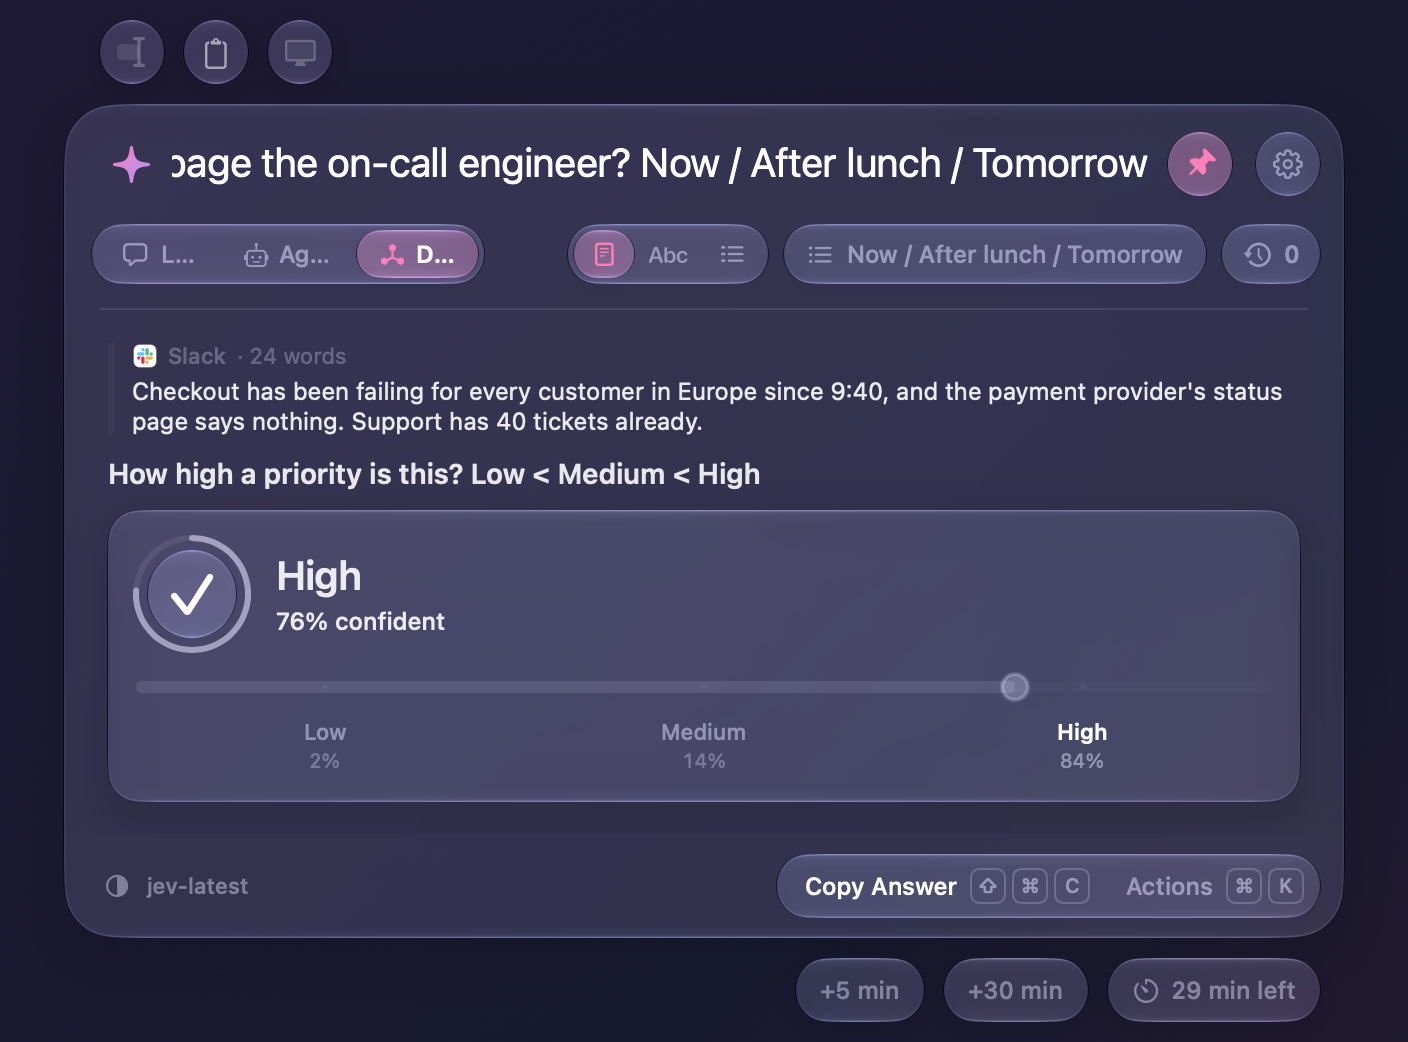
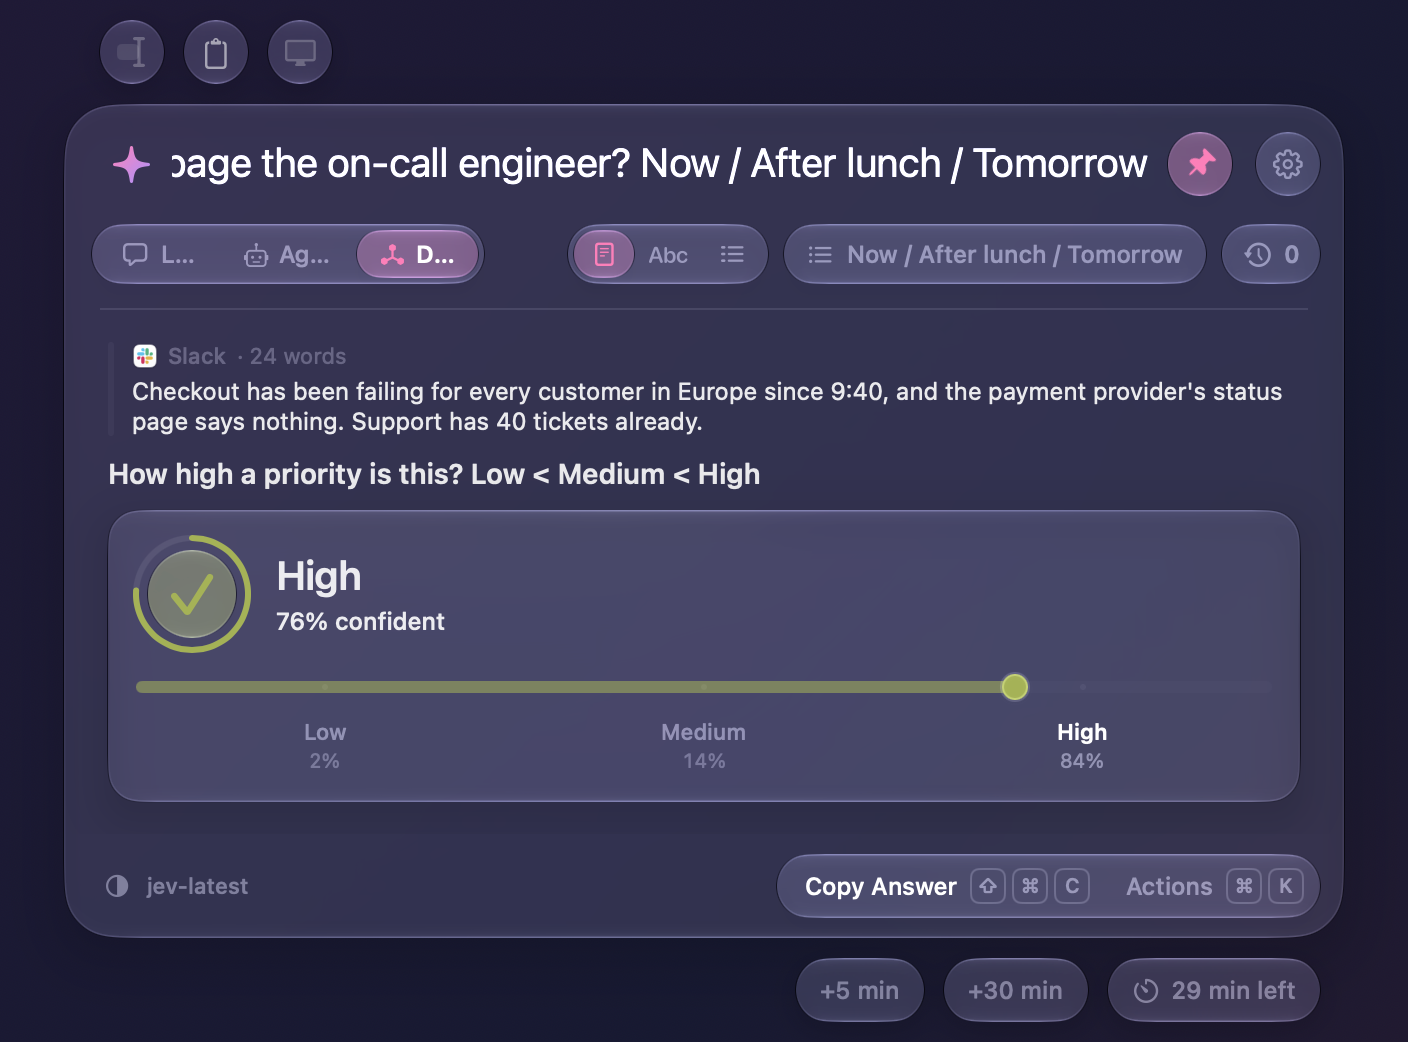
Decision mode: optional context, and colour by confidence
Three refinements to Decision mode from one request:
- A decision can now be asked without any context; the row under the
  input still suggests adding some, now optional (canSend no longer
  requires it).
- The row's copy is generic and one line: "What's the context for this
  decision?" instead of "What should Jev decide about?".
- A choice or a score is coloured by Jev's confidence — green when very
  sure, amber when only moderately — on the disc, ring, and score meter.
  Yes and No keep their green and red.

Changed region(s): [[0.0938, 0.4914, 0.75, 0.6756]]

diff --git a/Meraline/Panel/DecisionCard.swift b/Meraline/Panel/DecisionCard.swift
@@ -2,12 +2,23 @@ import AppKit
 import SwiftUI
 
 /// What Jev decided, in the answer's place (see `Decision`): a glass disc with a check on green glass for Yes, a
-/// cross on red for No, a question mark on neutral glass for Not Sure, or a check on neutral glass for one of your
-/// own answers, which get no color; a ring around the disc is how sure Jev is, and beside it the answer and
-/// “82% confident”. Under them, every answer with its probability, the chosen one in the primary color — or, for
-/// answers in order (Jev's `score`), a scale that lays the levels out first to last with a marker where Jev placed
-/// the text, between two levels when it isn't sure. The check, the cross, the marker, and the words carry the
-/// meaning, so the colors are only a help, as in Show What Changed.
+/// cross on red for No, a question mark on neutral glass for Not Sure, or, for one of your own answers (a choice or
+/// a score), a check tinted by how sure Jev is — amber when it is only moderately sure, green when it is very sure.
+/// A ring around the disc is how sure Jev is, and beside it the answer and “82% confident”. Under them, every
+/// answer with its probability — or, for answers in order (Jev's `score`), a scale that lays the levels out first
+/// to last with a marker where Jev placed the text, between two levels when it isn't sure, coloured by that same
+/// confidence. The check, the cross, the marker, and the words carry the meaning, so the colors are only a help, as
+/// in Show What Changed.
+///
+/// A colour that follows how sure Jev is, for a choice or a score: red at the low end, amber in the middle, green
+/// when very sure — a decision shows the low end as Not Sure instead, so choices in practice run amber to green.
+private func confidenceColor(_ confidence: Double) -> Color {
+    let c = min(max(confidence, 0), 1)
+    let low = NSColor.removedText, mid = NSColor.systemOrange, high = NSColor.addedText
+    let blended = c >= 0.5 ? mid.blended(withFraction: (c - 0.5) * 2, of: high)
+                           : low.blended(withFraction: c * 2, of: mid)
+    return Color(nsColor: blended ?? high)
+}
 struct DecisionCard: View {
     let decision: Decision
     /// Under this confidence the card says Not Sure (see `Preferences.unsureBelow`).
@@ -37,7 +48,7 @@ struct DecisionCard: View {
                 Spacer(minLength: 0)
             }
             if decision.isOrdered {
-                ScaleRow(decision: decision, progress: ringDrawn)
+                ScaleRow(decision: decision, progress: ringDrawn, color: tint)
             } else {
                 ProbabilityRow(decision: decision)
             }
@@ -81,12 +92,14 @@ struct DecisionCard: View {
         }
     }
 
-    /// Green for Yes and red for No, deeper shades on light glass (see `NSColor.addedText`); nothing for the rest.
+    /// Green for Yes and red for No, deeper shades on light glass (see `NSColor.addedText`); for one of your own
+    /// answers, the colour of how sure Jev is; nothing while it is Not Sure.
     private var tint: Color? {
         switch verdict {
         case .yes: Color(nsColor: .addedText)
         case .no: Color(nsColor: .removedText)
-        case .unsure, .chosen: nil
+        case .chosen: confidenceColor(decision.confidence)
+        case .unsure: nil
         }
     }
 
@@ -147,6 +160,10 @@ private struct ScaleRow: View {
     let decision: Decision
     /// How far the meter is drawn, from none as the card appears to all of it, in step with the disc's ring.
     let progress: Double
+    /// The colour of how sure Jev is, for the meter and the marker; nil (neutral) while it is Not Sure.
+    let color: Color?
+
+    private var meterColor: Color { color ?? .primary }
 
     /// The marker's diameter and the track's height.
     private static let marker: CGFloat = 13
@@ -175,7 +192,7 @@ private struct ScaleRow: View {
                         .fill(.primary.opacity(0.08))
                         .frame(height: Self.track)
                     Capsule()
-                        .fill(.primary.opacity(0.35))
+                        .fill(meterColor.opacity(color == nil ? 0.35 : 0.55))
                         .frame(width: drawn, height: Self.track)
                     ForEach(Array(decision.options.enumerated()), id: \.offset) { index, _ in
                         Circle()
@@ -184,7 +201,7 @@ private struct ScaleRow: View {
                             .offset(x: cell * (CGFloat(index) + 0.5) - 1.5)
                     }
                     Circle()
-                        .fill(.primary)
+                        .fill(meterColor)
                         .overlay(Circle().stroke(.background, lineWidth: 2))
                         .frame(width: Self.marker, height: Self.marker)
                         .shadow(color: .black.opacity(0.15), radius: 1, y: 0.5)
@@ -267,12 +284,12 @@ struct DecisionStateRow: View {
             Image(systemName: "text.quote")
                 .foregroundStyle(.secondary)
             VStack(alignment: .leading, spacing: 2) {
-                Text("What should Jev decide about?")
+                Text("What’s the context for this decision?")
                     .font(.system(size: 13, weight: .semibold))
-                Text("Add the text you selected or copied with the buttons above the window, or write it here. A decision needs text; pictures and files don’t count.")
+                Text("Add the text you selected or copied, or write it here — it’s optional.")
                     .font(.system(size: 12))
                     .foregroundStyle(.secondary)
-                    .fixedSize(horizontal: false, vertical: true)
+                    .lineLimit(1)
             }
             Spacer(minLength: 8)
             Button("Write It", action: write)

diff --git a/MeralineTests/DecisionTests.swift b/MeralineTests/DecisionTests.swift
@@ -4,8 +4,8 @@ import Testing
 @testable import Meraline
 
 /// Decision mode: the answers a question names, the request TypeSafe's Jev gets and the reply it sends, and what
-/// the chat does with a decision. It refuses to ask without text, keeps the text for follow-ups, writes the
-/// answer in words, offers no rewrite, and plays no game against Jev.
+/// the chat does with a decision. Context is optional (the row only suggests it), it keeps any context for
+/// follow-ups, writes the answer in words, offers no rewrite, and plays no game against Jev.
 @MainActor
 struct DecisionTests {
     private typealias Support = GameTestSupport
@@ -186,13 +186,13 @@ struct DecisionTests {
 
     // MARK: The chat
 
-    @Test func aDecisionNeedsTextAndKeepsItForFollowUps() async throws {
+    @Test func aDecisionKeepsItsContextForFollowUps() async throws {
         let model = ScriptedModel(decisions: [Self.yes, Self.no])
         let (session, _) = Self.decisionSession(model)
         session.draft = "Is this urgent?"
         #expect(session.isDeciding)
-        #expect(!session.canSend, "nothing to decide about")
-        #expect(session.needsDecisionState)
+        #expect(session.canSend, "context is optional, so the question alone can be asked")
+        #expect(session.needsDecisionState, "the row still suggests adding context")
         session.writeState()
         #expect(!session.needsDecisionState, "the card to write it in stands in the row's place")
         session.removeTypedState()
@@ -233,6 +233,19 @@ struct DecisionTests {
         #expect(ChatSession.markdown(for: session.turns)?.contains("**Assistant**\n\nYes (82% confident)") == true)
     }
 
+    @Test func aDecisionCanBeAskedWithoutAnyContext() async throws {
+        let model = ScriptedModel(decisions: [Self.yes])
+        let (session, _) = Self.decisionSession(model)
+        session.draft = "Is 17 a prime number?"
+        #expect(session.canSend, "context is optional")
+        session.send()
+        await Support.settle(session)
+        let request = try #require(model.requests.last?.decision)
+        #expect(request.state.isEmpty, "no context was added")
+        #expect(request.question == "Is 17 a prime number?")
+        #expect(session.turns.last?.decision == Self.yes)
+    }
+
     @Test func textWrittenInTheWindowIsTheTextToDecideAbout() async throws {
         let unsure = Decision(options: [.init(label: "Yes", probability: 0.3), .init(label: "No", probability: 0.7)], isYesNo: true, confidence: 0.4)
         let model = ScriptedModel(decisions: [unsure])
@@ -241,7 +254,7 @@ struct DecisionTests {
         #expect(session.needsDecisionState)
         session.writeState()
         #expect(session.typedState == "")
-        #expect(!session.canSend, "an empty card is no text")
+        #expect(session.canSend, "the question alone can be asked; context is optional")
         #expect(!session.needsDecisionState, "the card stands in the row's place")
         session.typedState = "You won a prize, click here."
         #expect(session.canSend)

diff --git a/Meraline/Chat/ChatSession.swift b/Meraline/Chat/ChatSession.swift
@@ -234,8 +234,8 @@ final class ChatSession {
         guard !isStreaming else { return false }
         guard let gameState else {
             guard fileNotice == nil, pictureNotice == nil, bulkNotice == nil else { return false }
-            // A decision takes a question, and text to decide about.
-            if isDeciding { return !draft.trimmed.isEmpty && hasDecisionState }
+            // A decision takes a question; context sharpens it but is optional.
+            if isDeciding { return !draft.trimmed.isEmpty }
             return !draft.trimmed.isEmpty || !draftImages.isEmpty || !draftFiles.isEmpty || !draftSelections.isEmpty
         }
         switch gameState.phase {
@@ -306,15 +306,15 @@ final class ChatSession {
     var isDeciding: Bool { preferences.mode == .decision && !isPlaying }
 
     /// What a decision is about: the texts of the chat so far and those waiting in the draft, the written one
-    /// included (see `DecisionRequest`). A decision needs at least one, so a follow-up asks about the same texts.
+    /// included (see `DecisionRequest`). Context is optional, but a follow-up asks about the same texts the chat kept.
     var decisionState: [SelectedText] {
         turns.flatMap(\.selections) + draftSelections + (typedSelection.map { [$0] } ?? [])
     }
 
     var hasDecisionState: Bool { !decisionState.isEmpty }
 
-    /// Whether a decision waits for text to decide about, for the row beside the input that says so. The card for
-    /// writing it stands in the row's place, so the row goes as soon as the card opens.
+    /// Whether a decision has no context yet, for the row beside the input that suggests adding some (it is
+    /// optional). The card for writing it stands in the row's place, so the row goes as soon as the card opens.
     var needsDecisionState: Bool { isDeciding && !hasDecisionState && typedState == nil }
 
     /// The text written in the window as a text of its own, or nil while there is none.

diff --git a/CHANGELOG.md b/CHANGELOG.md
@@ -6,6 +6,8 @@ When a version has an entry here, the Release workflow uses it as the release no
 
 ## Unreleased
 
+- **Ask a decision without context.** Decision mode no longer needs text to decide about — ask a question on its own (“Is 17 prime?”) and Jev answers. Adding the text you selected, copied, or wrote still sharpens the call, and the row under the input still suggests it, now clearly optional.
+- **A choice or a score is coloured by how sure Jev is.** When a Decision names its own answers — a set with `/` or levels in order with `<` — the disc, its ring, and a score's meter now follow Jev's confidence: green when it's very sure, amber when it's only moderately, so the answer reads at a glance. Yes and No keep their green and red.
 - **Press Tab to add text to your question.** Tab in the input now opens a card for a piece of context written by hand — a quote, an email, a snippet to work on — that goes with your question in LLM and Agent modes, the way selected or copied text does, and that Decision has always had. ⌘Return sends from the card, while plain Return makes a new line. Tab no longer sends, since Return already does.
 - **A scale for a decision between levels.** When a Decision question names its answers in order (“How high a priority is this? Low < Medium < High”), Jev's answer now shows on a scale: the levels laid out first to last with a marker where Jev placed the text, which sits between two levels when it isn't sure, and each level's share beneath it. A question that picks one of a set still shows its answers as before.
 - **Longer selections and clipboards come along whole.** The text you add from a selection, the clipboard, or the window in Decision mode used to stop at 20,000 characters; a whole document copied or selected now arrives in full, up to a million characters, so a long report or transcript comes along without being cut.
